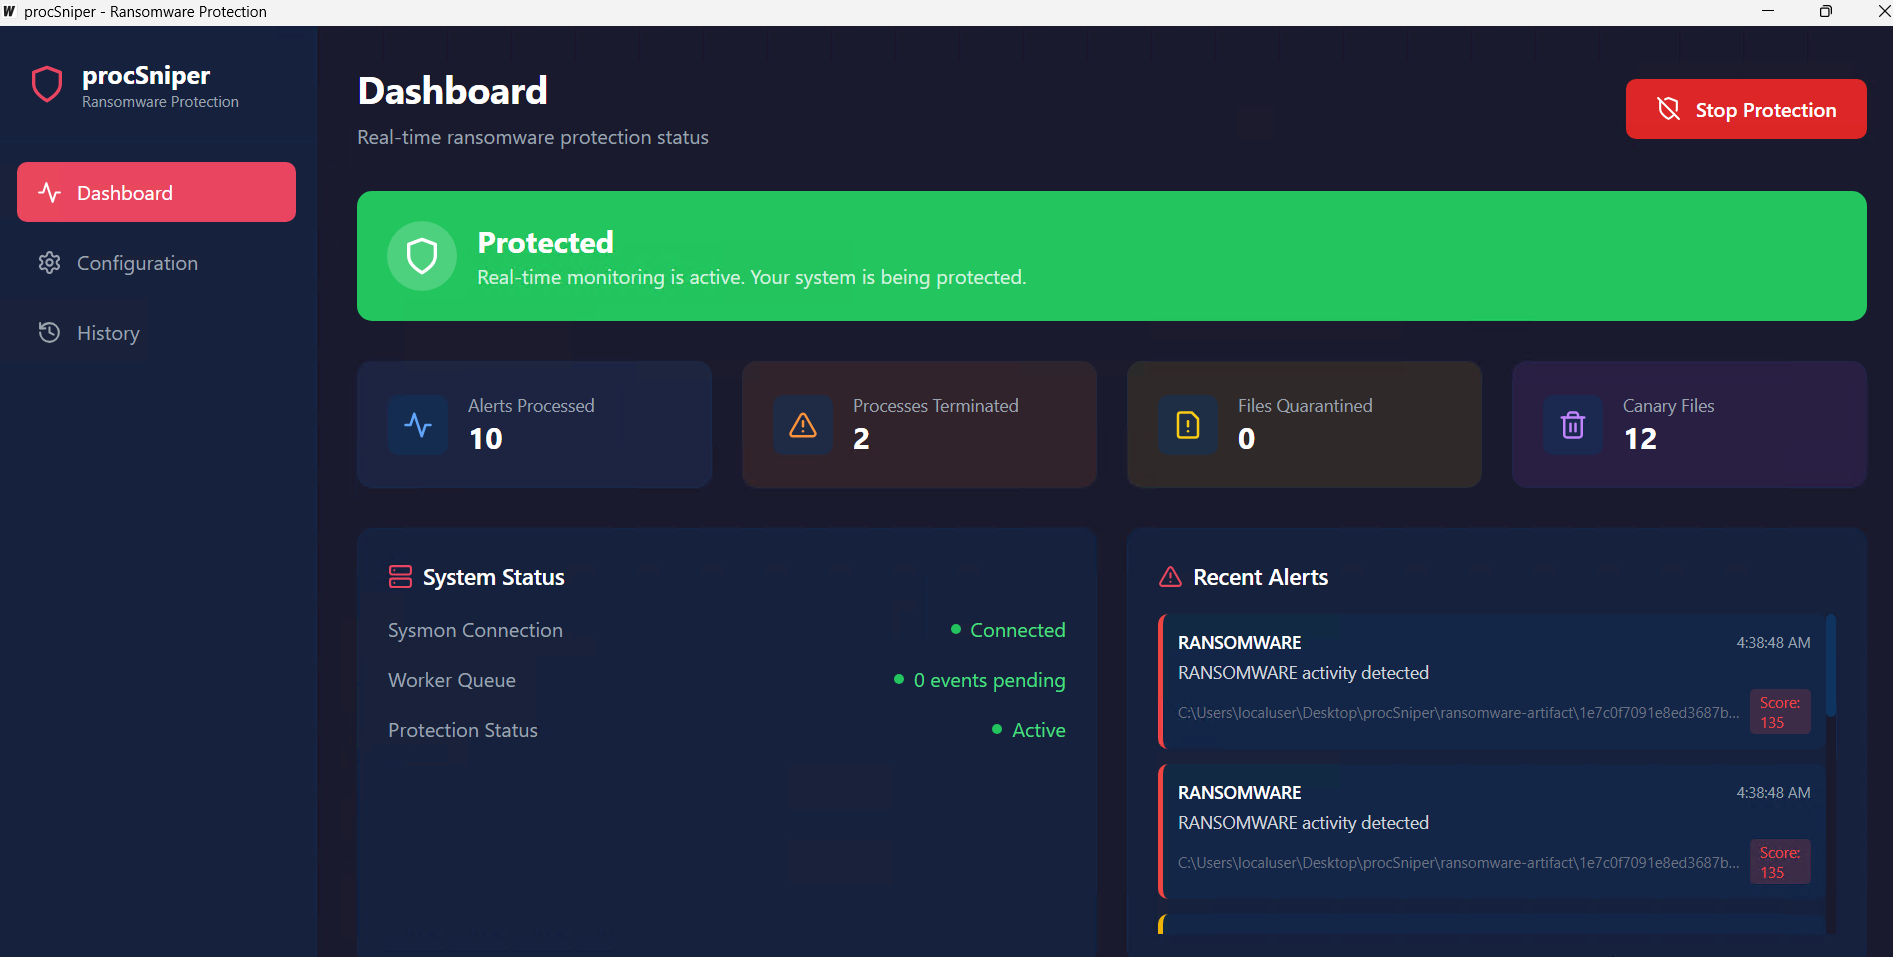
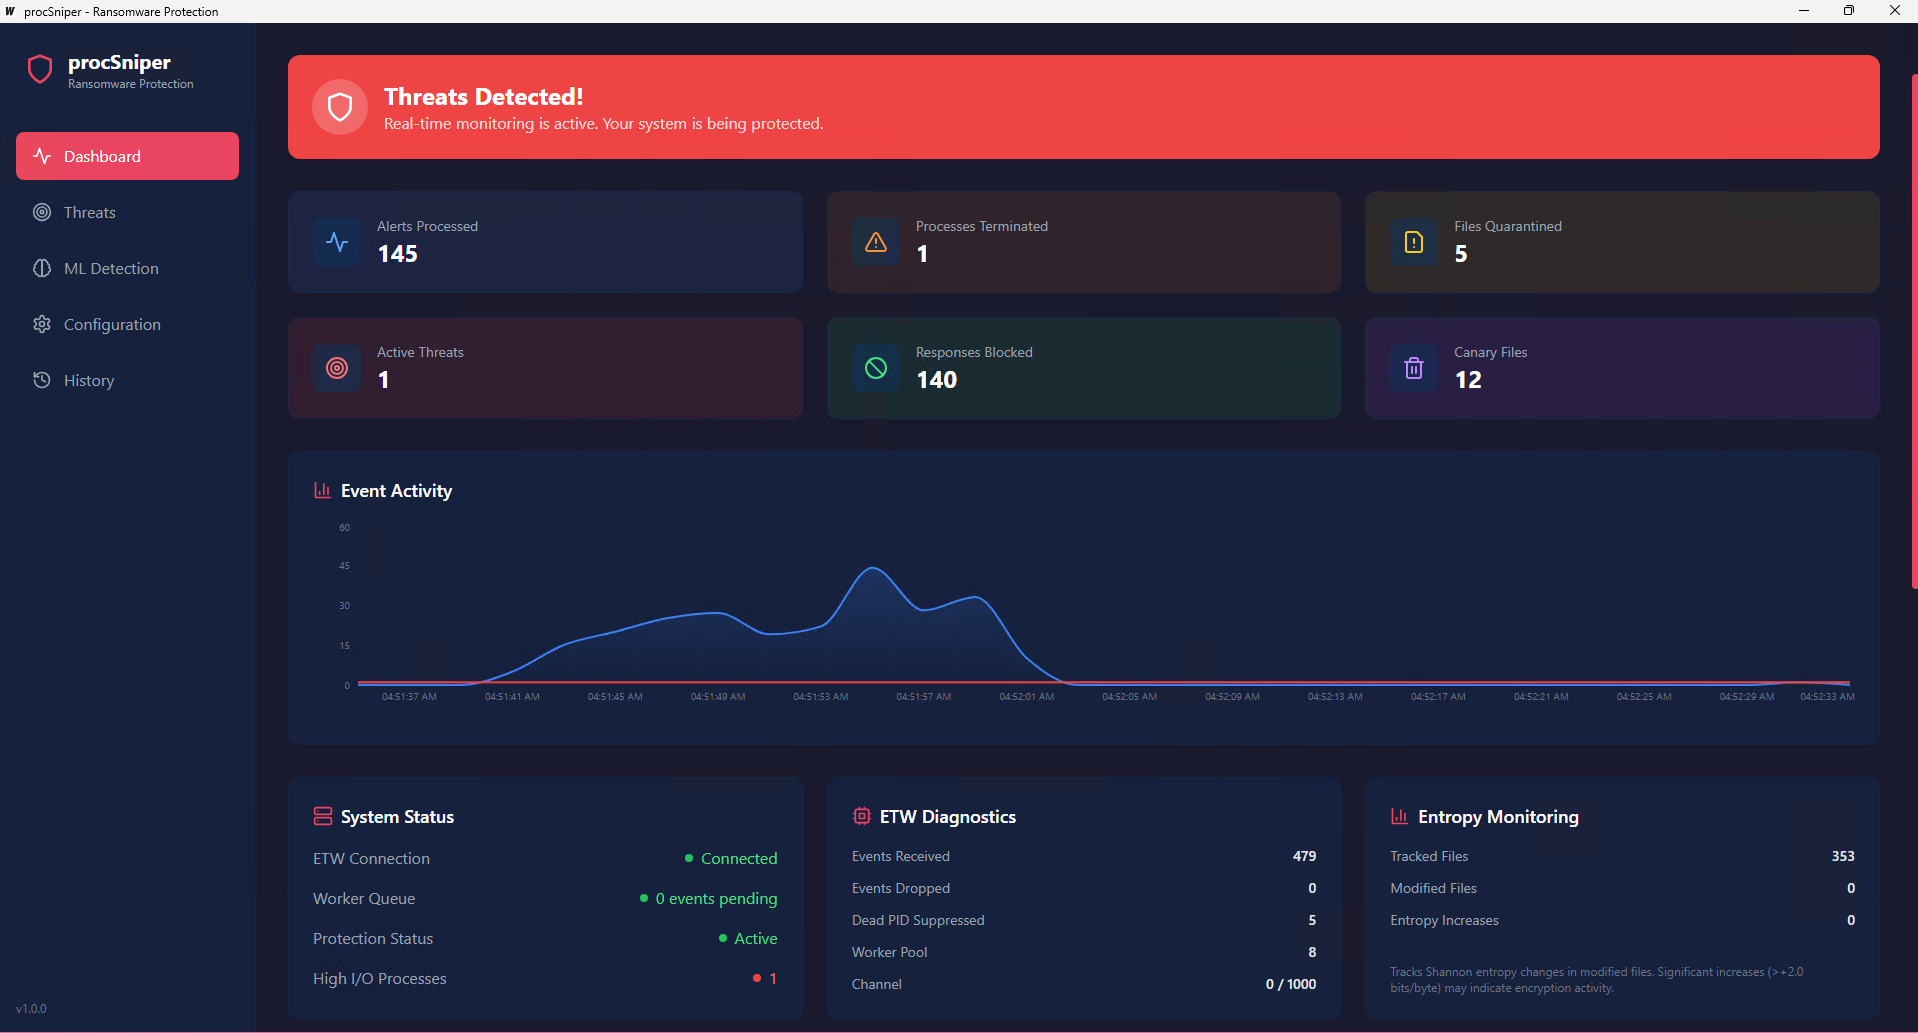
fix:add screenshot on readme

diff --git a/main.go b/main.go
@@ -40,7 +40,7 @@ func main() {
 	}
 
 	log.Println("╔════════════════════════════════════════════════════════════╗")
-	log.Println("║                    procSniper v1.0                         ║")
+	log.Println("║                    procSniper v2.0                         ║")
 	log.Println("║         Real-Time Ransomware & Stealer Detection           ║")
 	log.Println("╚════════════════════════════════════════════════════════════╝")
 	log.Println()
@@ -463,7 +463,7 @@ func showConfiguration(responseCfg *config.ResponseConfig) {
 
 // showVersion displays version information
 func showVersion() {
-	fmt.Println("procSniper v1.0")
+	fmt.Println("procSniper v2.0")
 	fmt.Println("Real-Time Ransomware & Information Stealer Detection")
 	fmt.Println()
 	fmt.Println("Features:")

diff --git a/README.md b/README.md
@@ -37,6 +37,9 @@ Important behavior:
 
 ## Detection and Decision Pipeline
 
+![ProcSniper Dashboard Protection](screenshots/dashboard-gui-detect-ransom.png)
+![ProcSniper Dashboard Protection](screenshots/dashboard-gui-threat.png)
+
 Pipeline stages:
 1. Kernel ETW stream captures process and file activity in near real time.
 2. Security log consumer correlates suspicious privilege/API patterns (for example backup API abuse workflows).
@@ -105,6 +108,7 @@ Recommended model for current ops examples:
 |---|---|---|
 | `conti` | detected but not terminated | terminated |
 | `lockbit` | terminated | terminated |
+| `lockbit 5` | detected but not terminated | terminated |
 
 Canary response policy controls:
 - `terminate`
